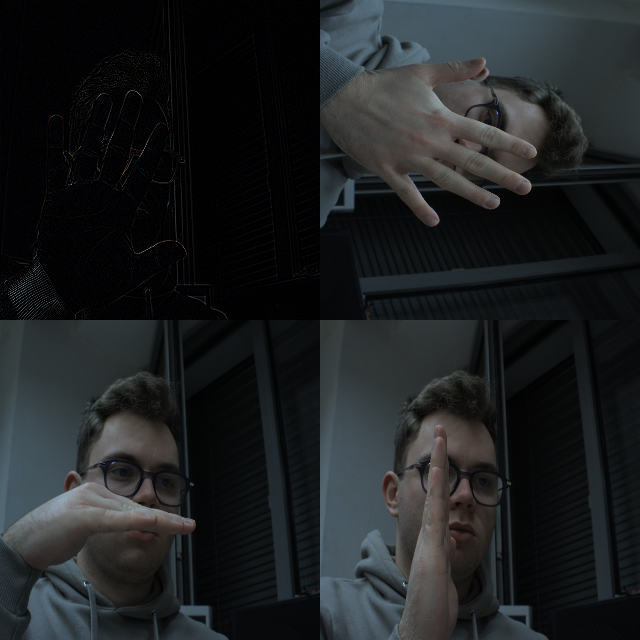
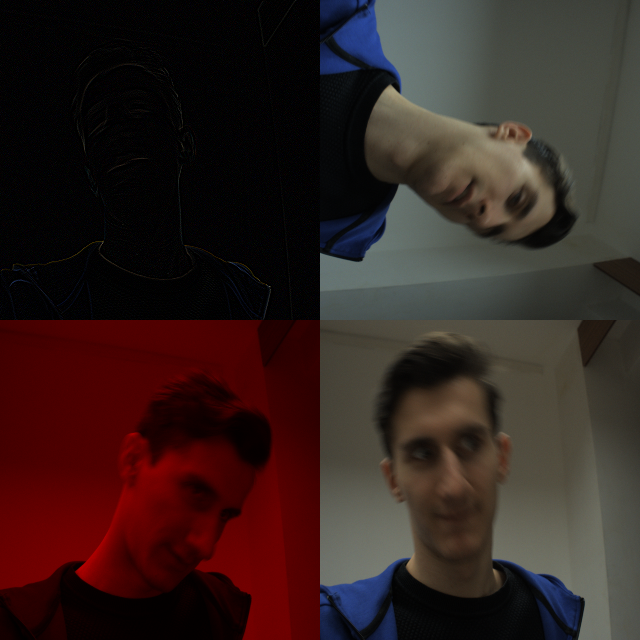
bod 5 a 6 hotovy

diff --git a/zadanie1/zadanie1.py b/zadanie1/zadanie1.py
@@ -62,6 +62,17 @@ for i in range(h):
         rot[j][h-1-i] = c2[i][j]
 mozaika[0:h, w:w*2] = rot
 
+# bod 5 – iba cerveny kanal v 3. casti mozaiky
+c3 = mozaika[h:h*2, 0:w]
+c3[:, :, 0] = 0   # B
+c3[:, :, 1] = 0   # G
+
+# bod 6 – informacie o obraze
+print("\n   Basic info:")
+print("dtype:", mozaika.dtype)
+print("rozmer (shape):", mozaika.shape)
+print("velkost (pocet prvkov):", mozaika.size)
+
 cv2.imwrite("mozaika.png", mozaika)
 cv2.imshow("mozaika", mozaika)
 cv2.waitKey(0)
